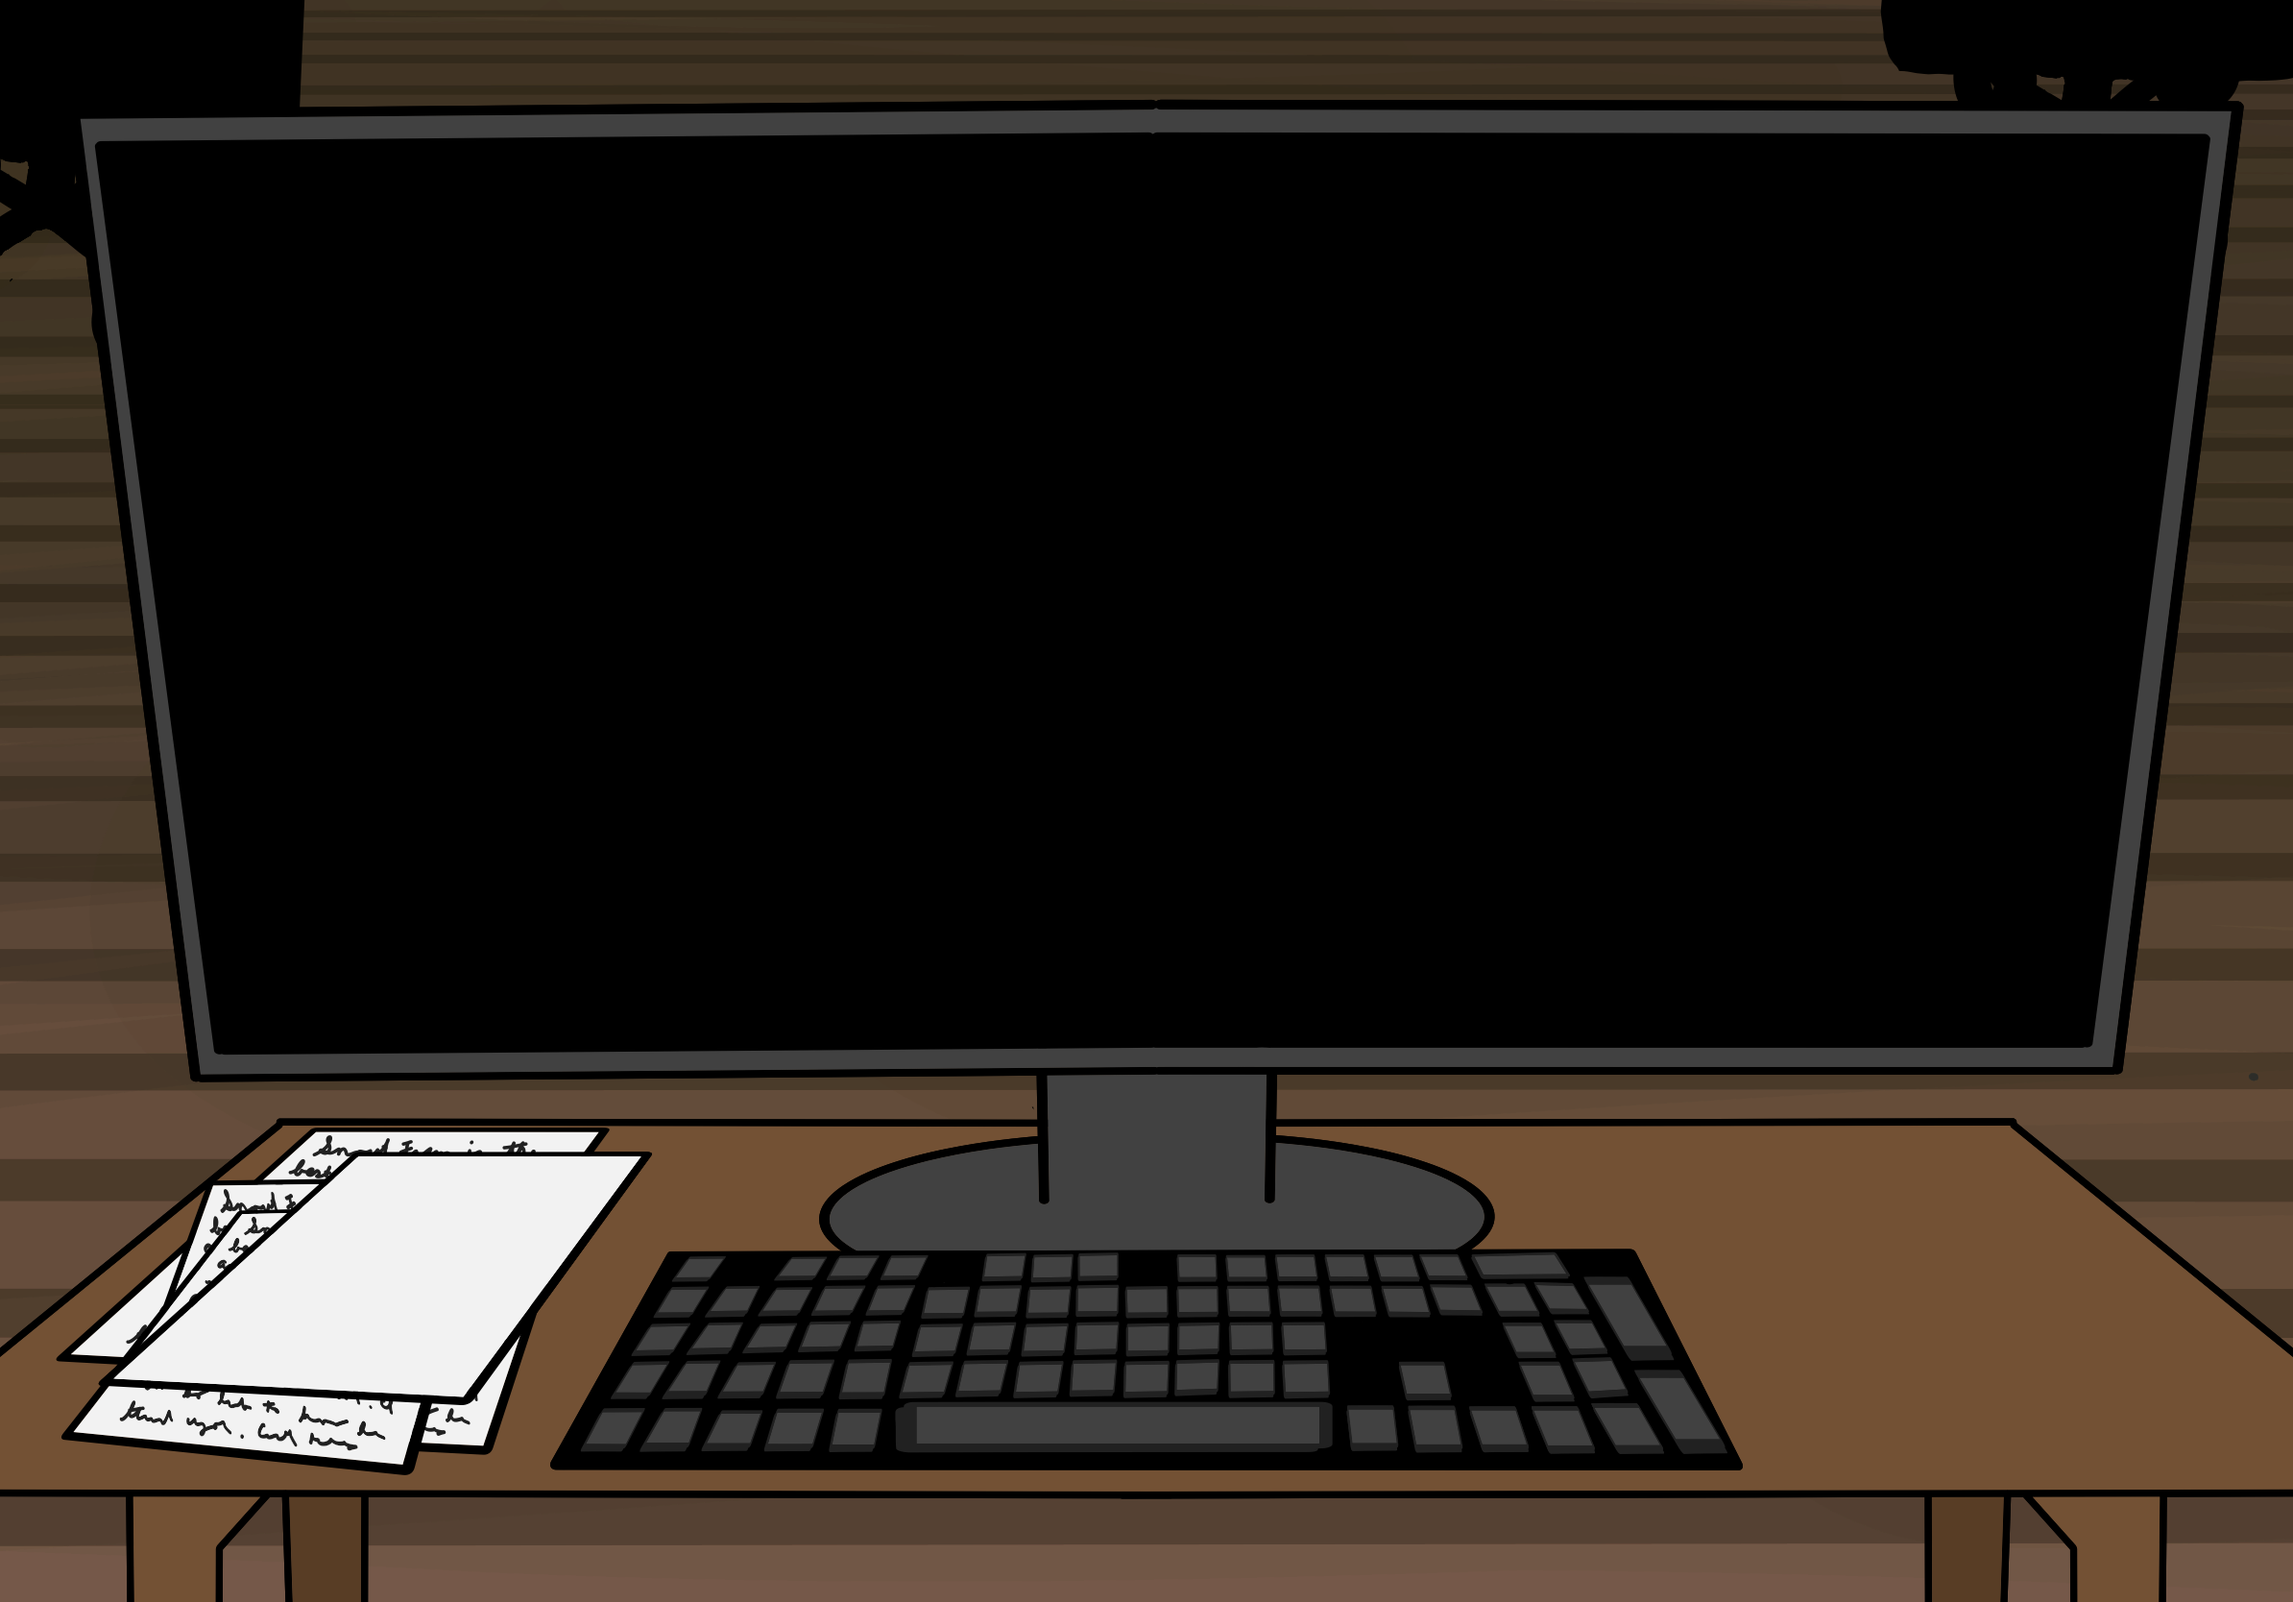
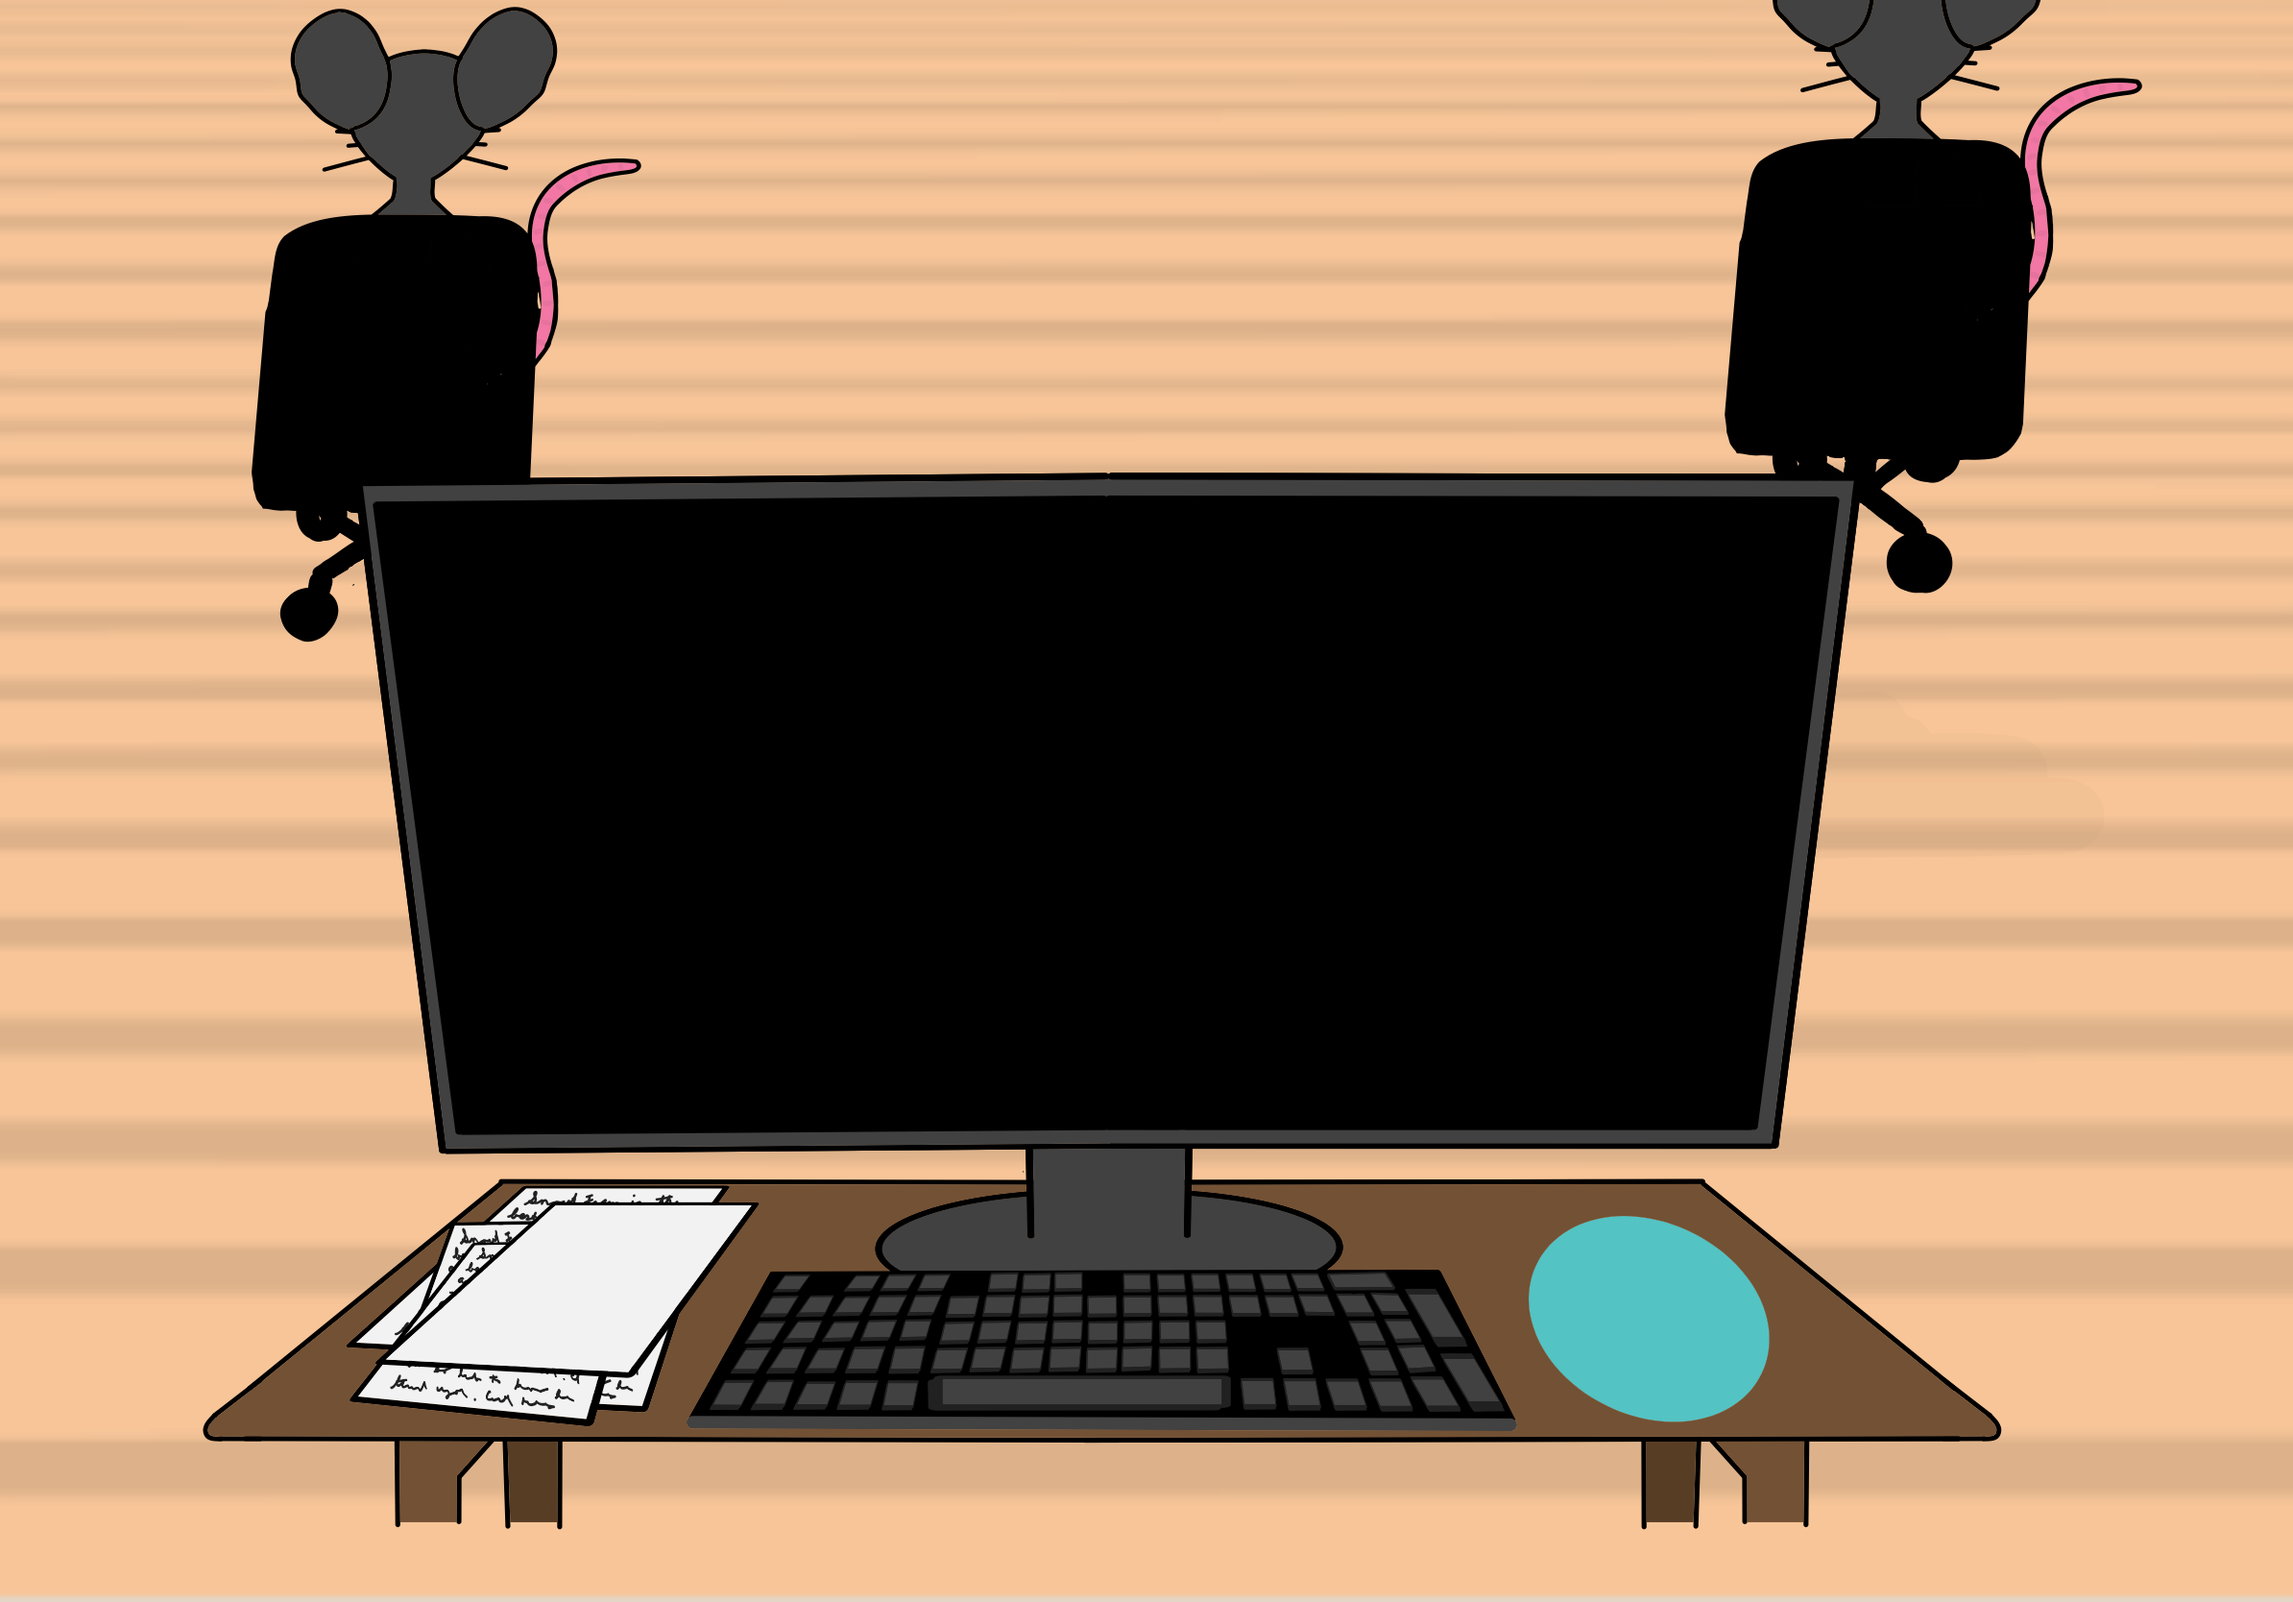
lowered paws

diff --git a/ratrace/src/app/page.tsx b/ratrace/src/app/page.tsx
@@ -27,7 +27,7 @@ export default function Home() {
       }));
 
       console.log('Updated player data:', playerData.karma, playerData.social, playerData.sales);
-      // Switch to next scene based on current scene and data
+
       handleSceneTransition(data);
     }
   };
@@ -77,14 +77,12 @@ export default function Home() {
         <div>Sales: {playerData.sales}</div>
       </div>
       
-      {/* Dynamic Scene Rendering */}
       {renderCurrentScene()}
       
-      {/* Static elements that appear in all scenes */}
-      <div id="leftPaw" className="absolute translate-y-2/5 translate-x-90 rotate-12">
+      <div id="leftPaw" className="absolute translate-y-3/5 translate-x-90 rotate-12">
         <Paw />
       </div>
-      <div id="rightPaw" className="absolute translate-y-2/5 translate-x-250 rotate-348">
+      <div id="rightPaw" className="absolute translate-y-3/5 translate-x-250 rotate-348">
         <Paw />
       </div>
     </div>

diff --git a/ratrace/src/app/scenes/walkToDesk.tsx b/ratrace/src/app/scenes/walkToDesk.tsx
@@ -115,8 +115,8 @@ const WalkToDesk = ({ onDialogueData }: RemiIntroProps) => {
                 </div>
             )}
 
-            <div className="z-0 w-[100vw] h-[100vh] flex justify-center items-center absolute bottom-0 right-0 ">
-                <Image src={ComputerView} alt="Computer View" className="w-full h-full object-cover" />
+            <div className="z-0 w-[100vw] h-[100vh] flex justify-center items-center absolute bottom-30 right-0 ">
+                <Image src={ComputerView} alt="Computer View" className="" />
             </div>
         </div>
     );
